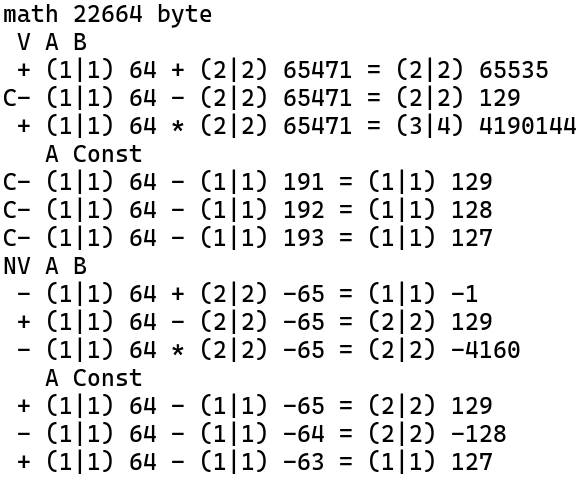
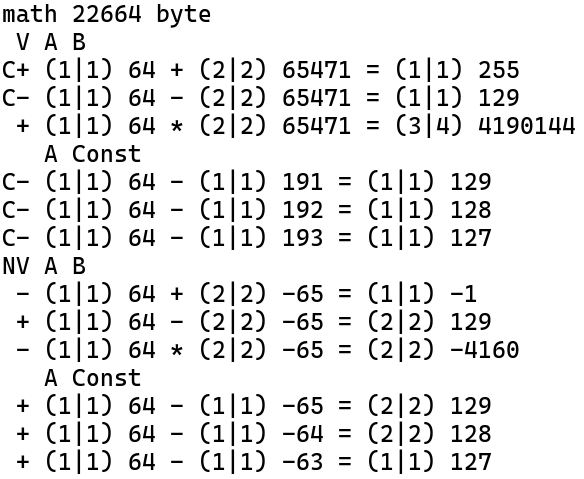
v15.9

diff --git a/math.c b/math.c
@@ -39,7 +39,7 @@ void FADD(an r, an a, anu l, an b) { Mat.N = l; Mat.r = r; Mat.a = a; Mat.b = b;
     if ((Mat.x == 128 && Mat.F == Mat.l) || (Mat.y == 128 && Mat.N == Mat.lb)) {
       while(Mat.i && !*Mat.ae--) { Mat.i--; } while(Mat.j && !*Mat.e--) { Mat.j--; }
       Mat.t -= !(Mat.i && Mat.j); } }
-  if (Mat.t) { Mat.N = (Mat.t = (!Mat.V && Mat.N > Mat.l)) ? Mat.l:Mat.N;
+  if (Mat.t) { Mat.N = (Mat.t = (!(Mat.Nim && Mat.V) && Mat.N > Mat.l)) ? Mat.l:Mat.N;
     Mat.ae = Mat.r; Mat.i = (Mat.F > Mat.N) ? Mat.N:Mat.F; Mat.F -= Mat.i; Mat.N -= Mat.i;
     do { Mat.x = *Mat.a++; Mat.y = (*Mat.ae++ = Mat.x + *Mat.be++ + Mat.C);
       Mat.C = (Mat.x > Mat.y) || (Mat.C && Mat.y == Mat.x); } while(Mat.i--);
@@ -53,7 +53,7 @@ void FADD(an r, an a, anu l, an b) { Mat.N = l; Mat.r = r; Mat.a = a; Mat.b = b;
     Mat.F = !(++Mat.i | *Mat.ae);  Mat.i = (!Mat.i && *Mat.ae == 128); if (Mat.Nim) {
       Mat.C = (Mat.na != Mat.N && !(Mat.na ^ Mat.nb)) || Mat.i;
       if (Mat.C && Mat.x != 255 && (Mat.V || (!Mat.V && Mat.x < Mat.l))) { Mat.F = 0; Mat.x++;
-        Mat.C--; Mat.N = Mat.i ? Mat.N:~Mat.N; *++Mat.ae = Mat.N; }
+        Mat.C--; Mat.N = Mat.i ? Mat.na:~Mat.N; *++Mat.ae = Mat.N; }
       Mat.t = (Mat.t | Mat.C) ? 2:0; } if (Mat.t < 2) { if (!Mat.V && Mat.l > Mat.x) {
       Mat.i = Mat.l - Mat.x; do *++Mat.ae = Mat.N; while(--Mat.i); Mat.x = Mat.l; }
       Mat.C |= Mat.t; Mat.l = Mat.x; return; } } Mat.F = 2; Mat.N = 255; Mat.l = Mat.V ? 0:Mat.l;
@@ -68,7 +68,7 @@ void FSUB(an r, an a, anu l, an b) { Mat.N = l; Mat.r = r; Mat.a = a; Mat.b = b;
     if ((Mat.x == 128 && Mat.F == Mat.l) || (Mat.y == 128 && Mat.N == Mat.lb)) {
       while(Mat.i && !*Mat.ae--) { Mat.i--; } while(Mat.j && !*Mat.e--) { Mat.j--; }
       Mat.t -= !(Mat.i && Mat.j); } }
-  if (Mat.t) { Mat.N = (Mat.t = (!Mat.V && Mat.N > Mat.l)) ? Mat.l:Mat.N;
+  if (Mat.t) { Mat.N = (Mat.t = (!(Mat.Nim && Mat.V) && Mat.N > Mat.l)) ? Mat.l:Mat.N;
     Mat.ae = Mat.r; Mat.i = (Mat.F > Mat.N) ? Mat.N:Mat.F; Mat.F -= Mat.i; Mat.N -= Mat.i;
     do { Mat.x = *Mat.a++; Mat.y = (*Mat.ae++ = Mat.x - *Mat.be++ - Mat.C);
       Mat.C = (Mat.x < Mat.y) || (Mat.C && Mat.y == Mat.x); } while(Mat.i--);
@@ -82,7 +82,7 @@ void FSUB(an r, an a, anu l, an b) { Mat.N = l; Mat.r = r; Mat.a = a; Mat.b = b;
     Mat.F = !(++Mat.i | *Mat.ae);  Mat.i = (!Mat.i && *Mat.ae == 128); if (Mat.Nim) {
       Mat.C = ((Mat.na ^ Mat.nb) && (Mat.na ^ Mat.N)) || Mat.i;
       if (Mat.C && Mat.x != 255 && (Mat.V || (!Mat.V && Mat.x < Mat.l))) { Mat.F = 0; Mat.x++;
-        Mat.C--; Mat.N = Mat.i ? Mat.N:~Mat.N; *++Mat.ae = Mat.N; }
+        Mat.C--; Mat.N = Mat.i ? Mat.na:~Mat.N; *++Mat.ae = Mat.N; }
       Mat.t = (Mat.t | Mat.C) ? 2:0; } if (Mat.t < 2) { if (!Mat.V && Mat.l > Mat.x) {
       Mat.i = Mat.l - Mat.x; do *++Mat.ae = Mat.N; while(--Mat.i); Mat.x = Mat.l; }
     Mat.N = Mat.Nim ? Mat.N:Mat.C; Mat.C |= Mat.t; Mat.l = Mat.x; return; } } Mat.F = 2;

diff --git a/README.md b/README.md
@@ -17,7 +17,7 @@
 P.s.: Блокировку убрали как только добавил сообщение о ней на главную страницу, длилась минут 20 как я заметил и принял меры чтоб сообщить об этом Вам. Это сообщение останется (20.09.2026 ~16.00 по местному +7) как память, так, что буду стараться вопреки не востребованности в России по данной области дабы остальной народ мог этим воспользоваться. Проанализируйте события с момента как я вернулся в эту сферу (конец января 2026 выложен Products готовый полностью затем занялся Fresh в начале февраля 2026), всё это время обновлялся код и было забавно видеть на open.net новости - даже компании серьёзные их как озарило - так, что у меня нет желания и времени следить за соблюдением GPLv3 из России, если заметите нарушение лицензии, то гарантировано взаимовыгодное сотрудничество.
 
 <div align="center">
-  <h1>Результат запуска v15.8</h1>
+  <h1>Результат запуска v15.9</h1>
   
   <picture>
     <source media="(prefers-color-scheme: dark)" srcset="Plus/psb.jpeg">
